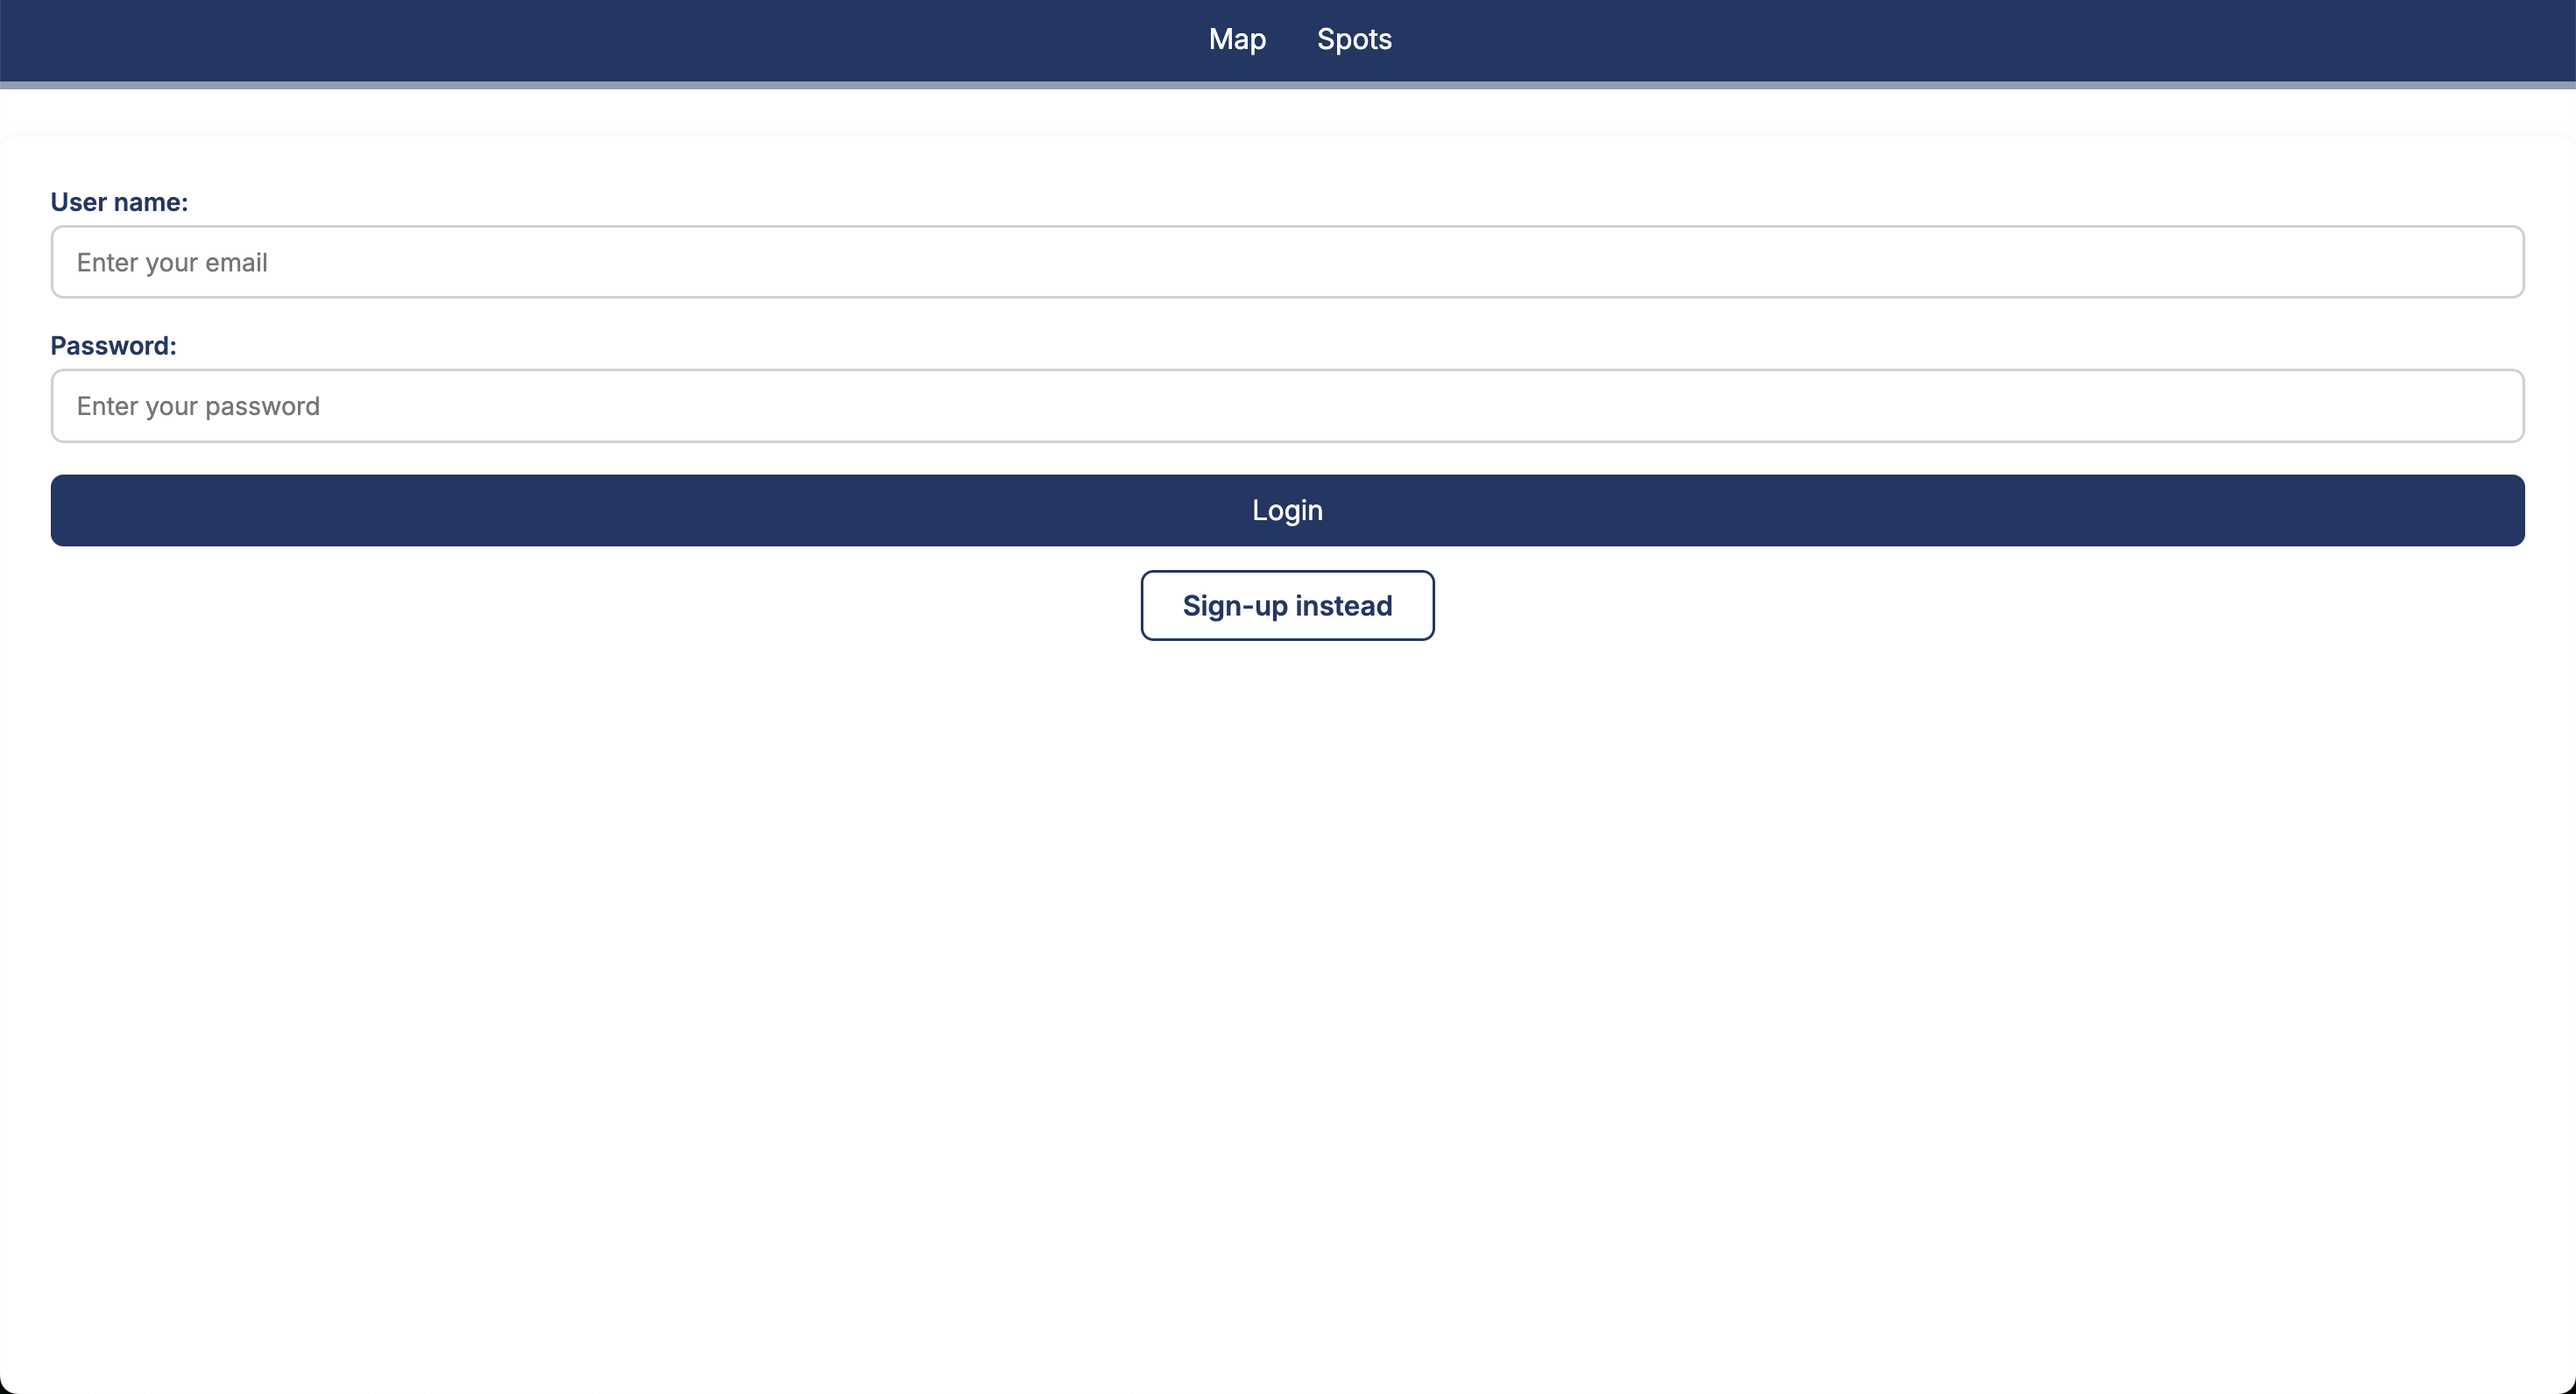
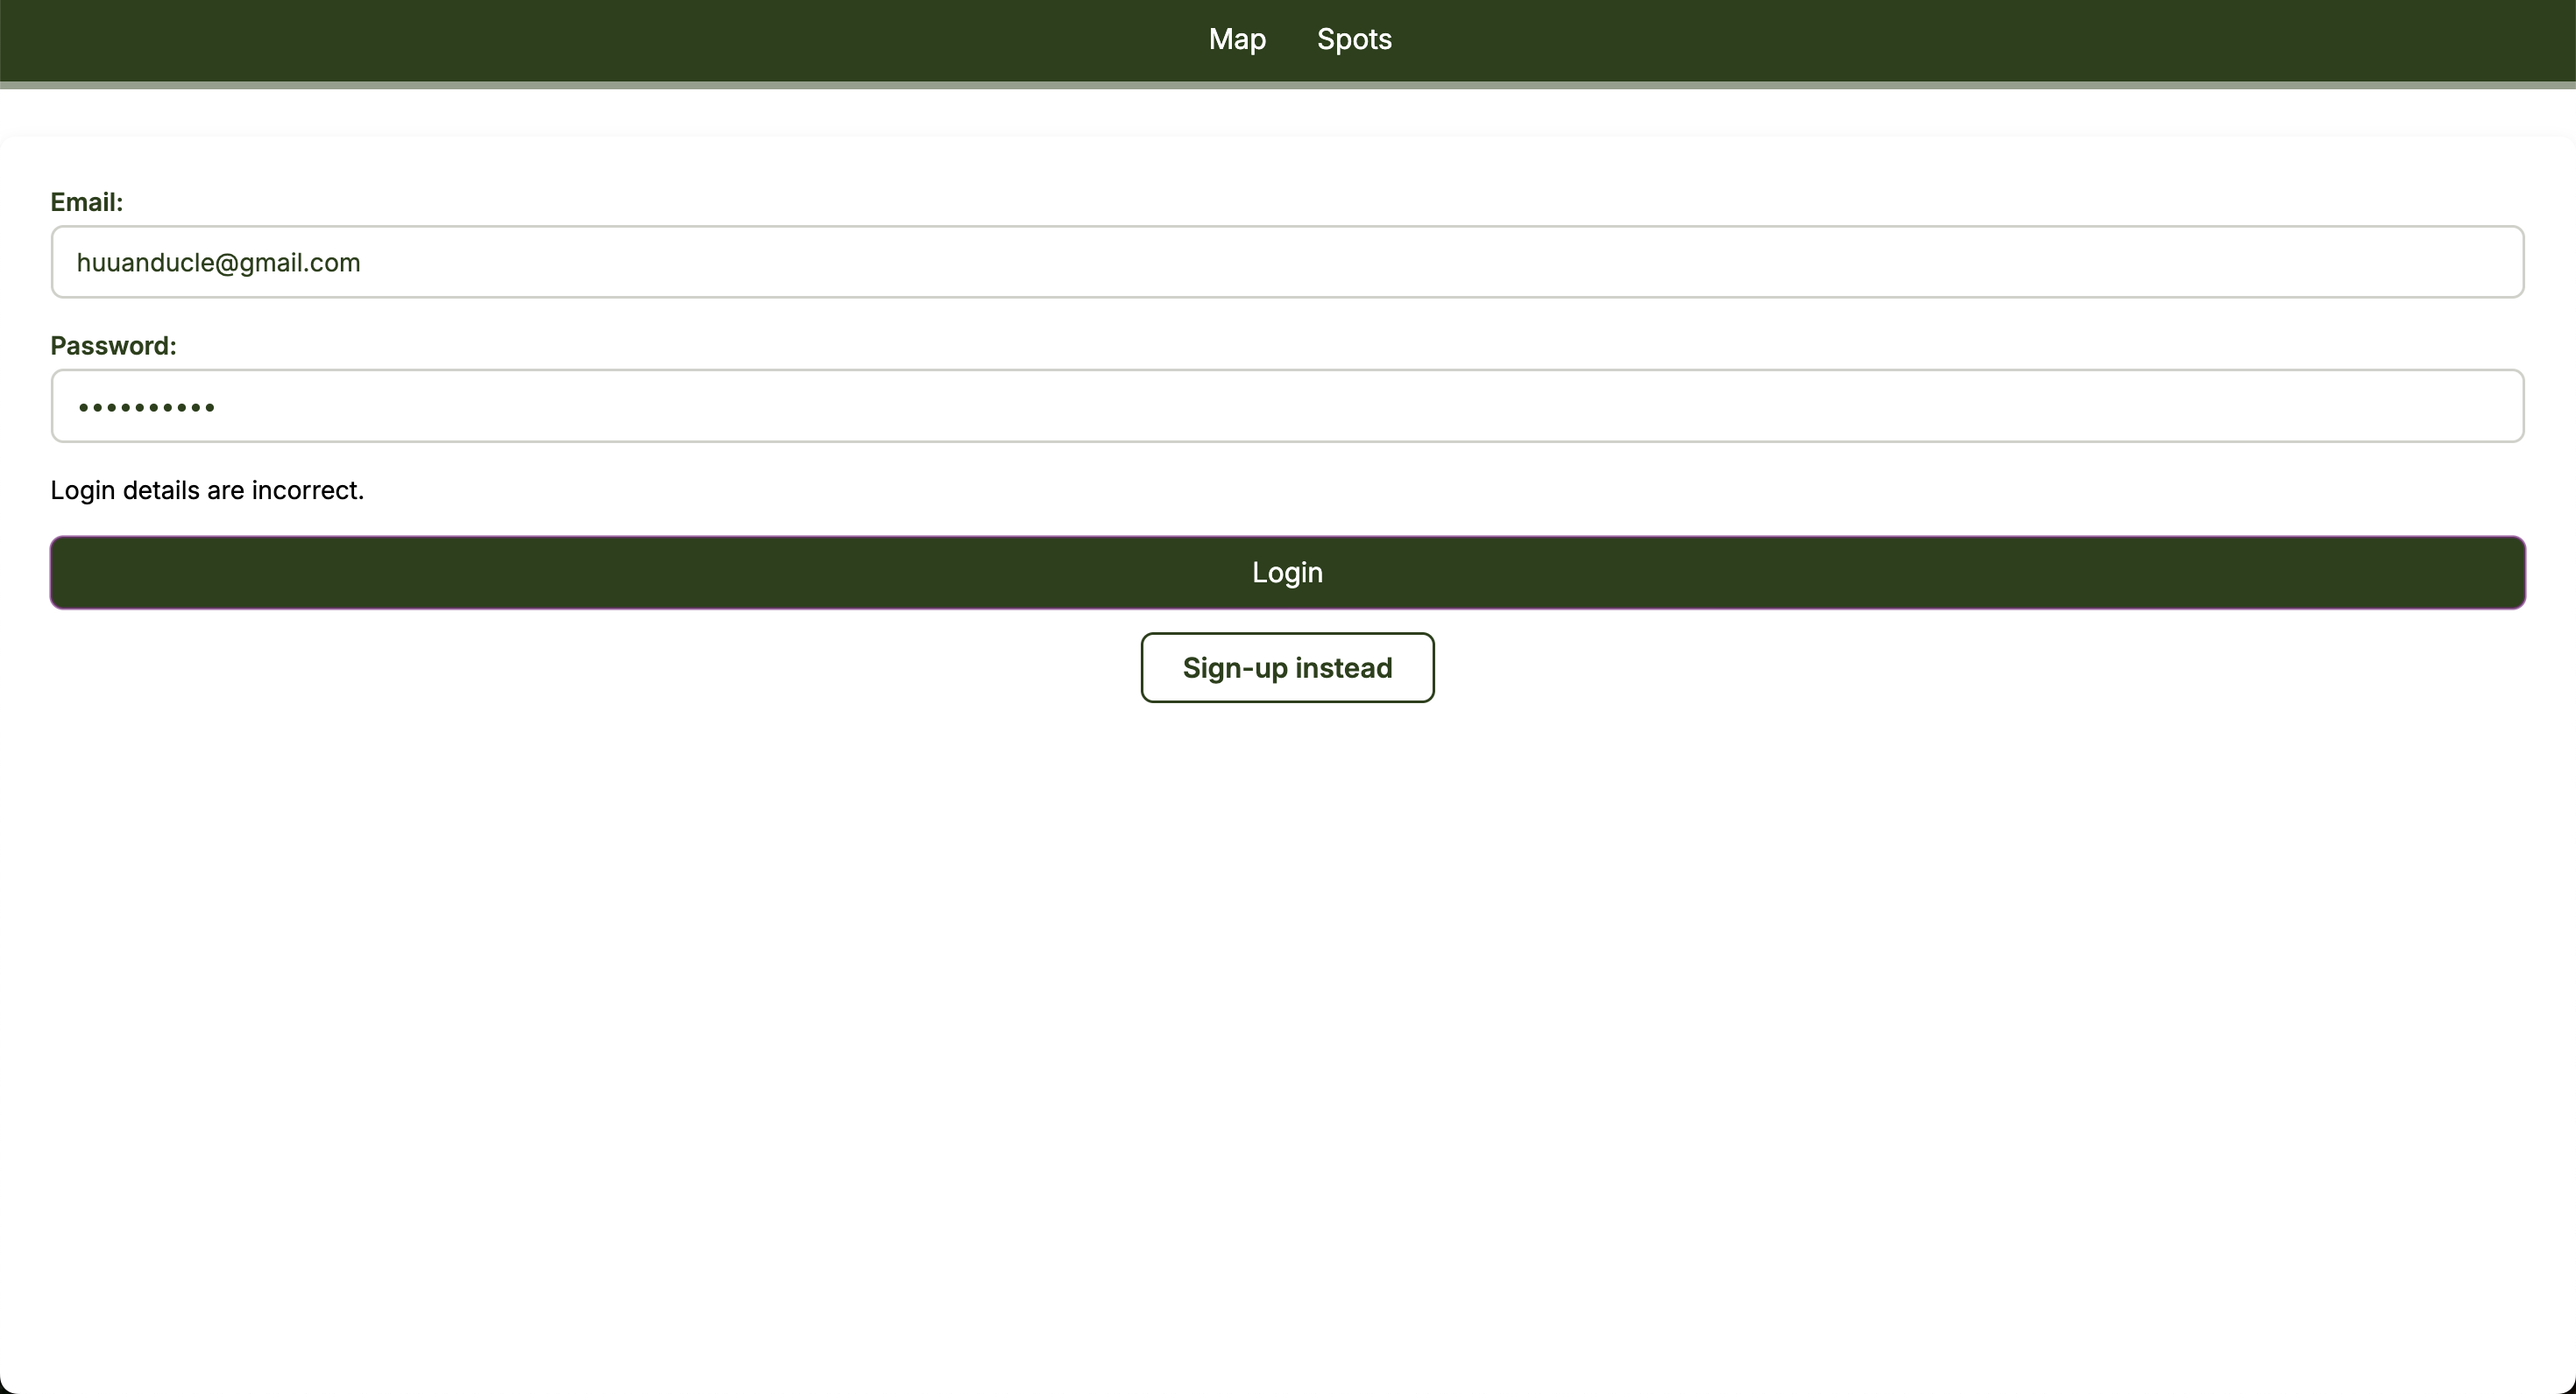
Version 4.04 (updated README and static files)

diff --git a/utmLive/staticfiles/static-app/script-map.js b/utmLive/staticfiles/static-app/script-map.js
@@ -119,6 +119,21 @@ function showRouteCard() {
     const container = document.createElement("div");
     container.className = "map-overlay-inner";
 
+    const buttonWrapper = document.createElement("div");
+    buttonWrapper.classList.add("button-wrapper");
+
+    const addLocationButton = document.createElement("button");
+    addLocationButton.classList.add("base-button", "close-button");
+    addLocationButton.innerHTML = "add stop";
+    addLocationButton.addEventListener("click", hideCard);
+    buttonWrapper.appendChild(addLocationButton)
+
+    const closeButton = document.createElement("button");
+    closeButton.classList.add("base-button", "close-button");
+    closeButton.innerHTML = "close";
+    closeButton.addEventListener("click", hideCard);
+    buttonWrapper.appendChild(closeButton)
+
     const routingWrapper = document.createElement("div");
     routingWrapper.style.display = "flex";
     routingWrapper.style.flexDirection = "column";
@@ -134,6 +149,8 @@ function showRouteCard() {
 
     const location1Wrapper = document.createElement("div");
     location1Wrapper.style.display = "flex";
+    location1Wrapper.classList.add("location-info")
+    location1Wrapper.style.marginBottom = "15px"
 
     const location1Field = document.createElement("input");
     location1Field.type = "text";
@@ -143,7 +160,7 @@ function showRouteCard() {
     location1Wrapper.appendChild(location1Field)
 
     const location1Button = document.createElement("button");
-    location1Button.classList.add("base-button");
+    location1Button.classList.add("base-button", "location-select-button");
     location1Button.style.maxHeight = "40px";
     location1Button.innerHTML = "select";
     location1Wrapper.appendChild(location1Button)
@@ -160,6 +177,8 @@ function showRouteCard() {
 
     const location2Wrapper = document.createElement("div");
     location2Wrapper.style.display = "flex";
+    location2Wrapper.classList.add("location-info")
+    location2Wrapper.style.marginBottom = "15px"
 
     const location2Field = document.createElement("input");
     location2Field.type = "text";
@@ -169,7 +188,7 @@ function showRouteCard() {
     location2Wrapper.appendChild(location2Field)
 
     const location2Button = document.createElement("button");
-    location2Button.classList.add("base-button");
+    location2Button.classList.add("base-button", "location-select-button");
     location2Button.style.maxHeight = "40px";
     location2Button.innerHTML = "select";
     location2Button.addEventListener("click", () => {
@@ -179,6 +198,7 @@ function showRouteCard() {
 
     routingWrapper.appendChild(location2Wrapper)
 
+    container.appendChild(buttonWrapper);
     container.appendChild(routingWrapper);
     card.appendChild(container);
     card.style.display = "block";

diff --git a/utmLive/staticfiles/static-app/script-interactions.js b/utmLive/staticfiles/static-app/script-interactions.js
@@ -68,7 +68,6 @@ async function drawRoute(coordinates1, coordinates2) {
             type: "geojson",
             data: routeGeoJSON
         });
-
         map.addLayer({
             id: "route-line",
             type: "line",
@@ -96,13 +95,13 @@ async function startRoute(feature) {
 
 function waitForFeatureClick() {
     return new Promise((resolve, reject) => {
-        // Temporary handler that only triggers once
+        // temporary handler that only triggers once
         const handler = async ({ feature }) => {
             if (!isSelecting) return;
             map.removeInteraction("temp-select");
             resolve(feature);
         };
-
+        // wait for the buildings layer to be clicked
         map.addInteraction("temp-select", {
             type: "click",
             target: { layerId: MAIN_LAYER },
@@ -114,7 +113,7 @@ function waitForFeatureClick() {
 async function selectLocation(choice) {
     isSelecting = true;
     hideCard();
-    
+    // hide information card and allows user to select a location 
     if (choice == "start") {
         try {
             const startFeature = await waitForFeatureClick();

diff --git a/utmLive/authentication/static/static-authentication/style.css b/utmLive/authentication/static/static-authentication/style.css
@@ -1,10 +1,10 @@
 @import url('https://fonts.googleapis.com/css2?family=Birthstone&family=Inter:ital,opsz,wght@0,14..32,100..900;1,14..32,100..900&family=Poppins:ital,wght@0,100;0,200;0,300;0,400;0,500;0,600;0,700;0,800;0,900;1,100;1,200;1,300;1,400;1,500;1,600;1,700;1,800;1,900&display=swap');
 
 :root {
-    --main-color: #1E3765;
-    --secondary-color: #007FA3;
+    --main-color: #284018;
+    --secondary-color: #536a47;
     --shade-color: #D0D1C9;
-    --highlight-color: #6FC7EA;
+    --highlight-color: #567b30;
 }
 
 * {

diff --git a/utmLive/staticfiles/static-authentication/style.css b/utmLive/staticfiles/static-authentication/style.css
@@ -1,10 +1,10 @@
 @import url('https://fonts.googleapis.com/css2?family=Birthstone&family=Inter:ital,opsz,wght@0,14..32,100..900;1,14..32,100..900&family=Poppins:ital,wght@0,100;0,200;0,300;0,400;0,500;0,600;0,700;0,800;0,900;1,100;1,200;1,300;1,400;1,500;1,600;1,700;1,800;1,900&display=swap');
 
 :root {
-    --main-color: #1E3765;
-    --secondary-color: #007FA3;
+    --main-color: #284018;
+    --secondary-color: #536a47;
     --shade-color: #D0D1C9;
-    --highlight-color: #6FC7EA;
+    --highlight-color: #567b30;
 }
 
 * {

diff --git a/utmLive/authentication/templates/templates-authentication/index.html b/utmLive/authentication/templates/templates-authentication/index.html
@@ -12,7 +12,7 @@
     <nav class="header">
         <div class="menu">
             <a class="menu-item" href="/main/">Map</a>
-            <a class="menu-item" href="#undefined">Spots</a>
+            <a class="menu-item" href="/main/list/"">Spots</a>
             {% if user.is_authenticated %}
             <a class="menu-item" href="#" onclick="document.getElementById('logout-form').submit()"; return false;">Logout</a>
             <form id="logout-form" action="{% url 'logout_screen' %}" method="POST" style="display:none;">

diff --git a/utmLive/staticfiles/static-app/style.css b/utmLive/staticfiles/static-app/style.css
@@ -223,7 +223,16 @@ nav {
     color: var(--main-color);
     border: 1px solid var(--main-color);
     padding: 10px 10px;
-    margin-bottom: 15px;
     font-size: medium;
     transition: background-color 0.3s ease, color 0.3s ease;
+}
+
+.location-select-button {
+    color: white;
+    border: 2px solid white;
+}
+
+.location-select-button:hover {
+    background-color: white;
+    color: var(--main-color);
 }

diff --git a/README.md b/README.md
@@ -3,6 +3,14 @@ This Django full-stack app is an interactive `3D map` of the `UTM campus`, highl
 
 *(I always love studying outside, anywhere besides home. Thus, I would love to know all of the nice study spots around my university campus. But there are so many of them! Therefore I decided to create this app to act as an interactive 3D map so that I can view all of them in one frame, plus some additional features!)*
 
+![alt text](demo-images/image-1.png)
+
+![alt text](demo-images/image-2.png)
+
+![alt text](demo-images/image-3.png)
+
+![alt text](demo-images/image-4.png)
+
 ## Features
 
 - Personalized map for UTM campus, with 3D environment and buildings.
@@ -23,14 +31,4 @@ All location metadata and spatial relationships are stored in a `postgresql` dat
 - Design custom 3D map using Mapbox.
 - Make models and datasets for all locations within the campus.
 - Define new user model with Django authentication system.
-
-![alt text](demo-images/image.png)
-
-![alt text](demo-images/image-3.png)
-
-![alt text](demo-images/image-4.png)
-
-![alt text](demo-images/image-1.png)
-
-![alt text](demo-images/image-2.png)
-
+- Integrate apis to check for weather, point of interests, and routes
